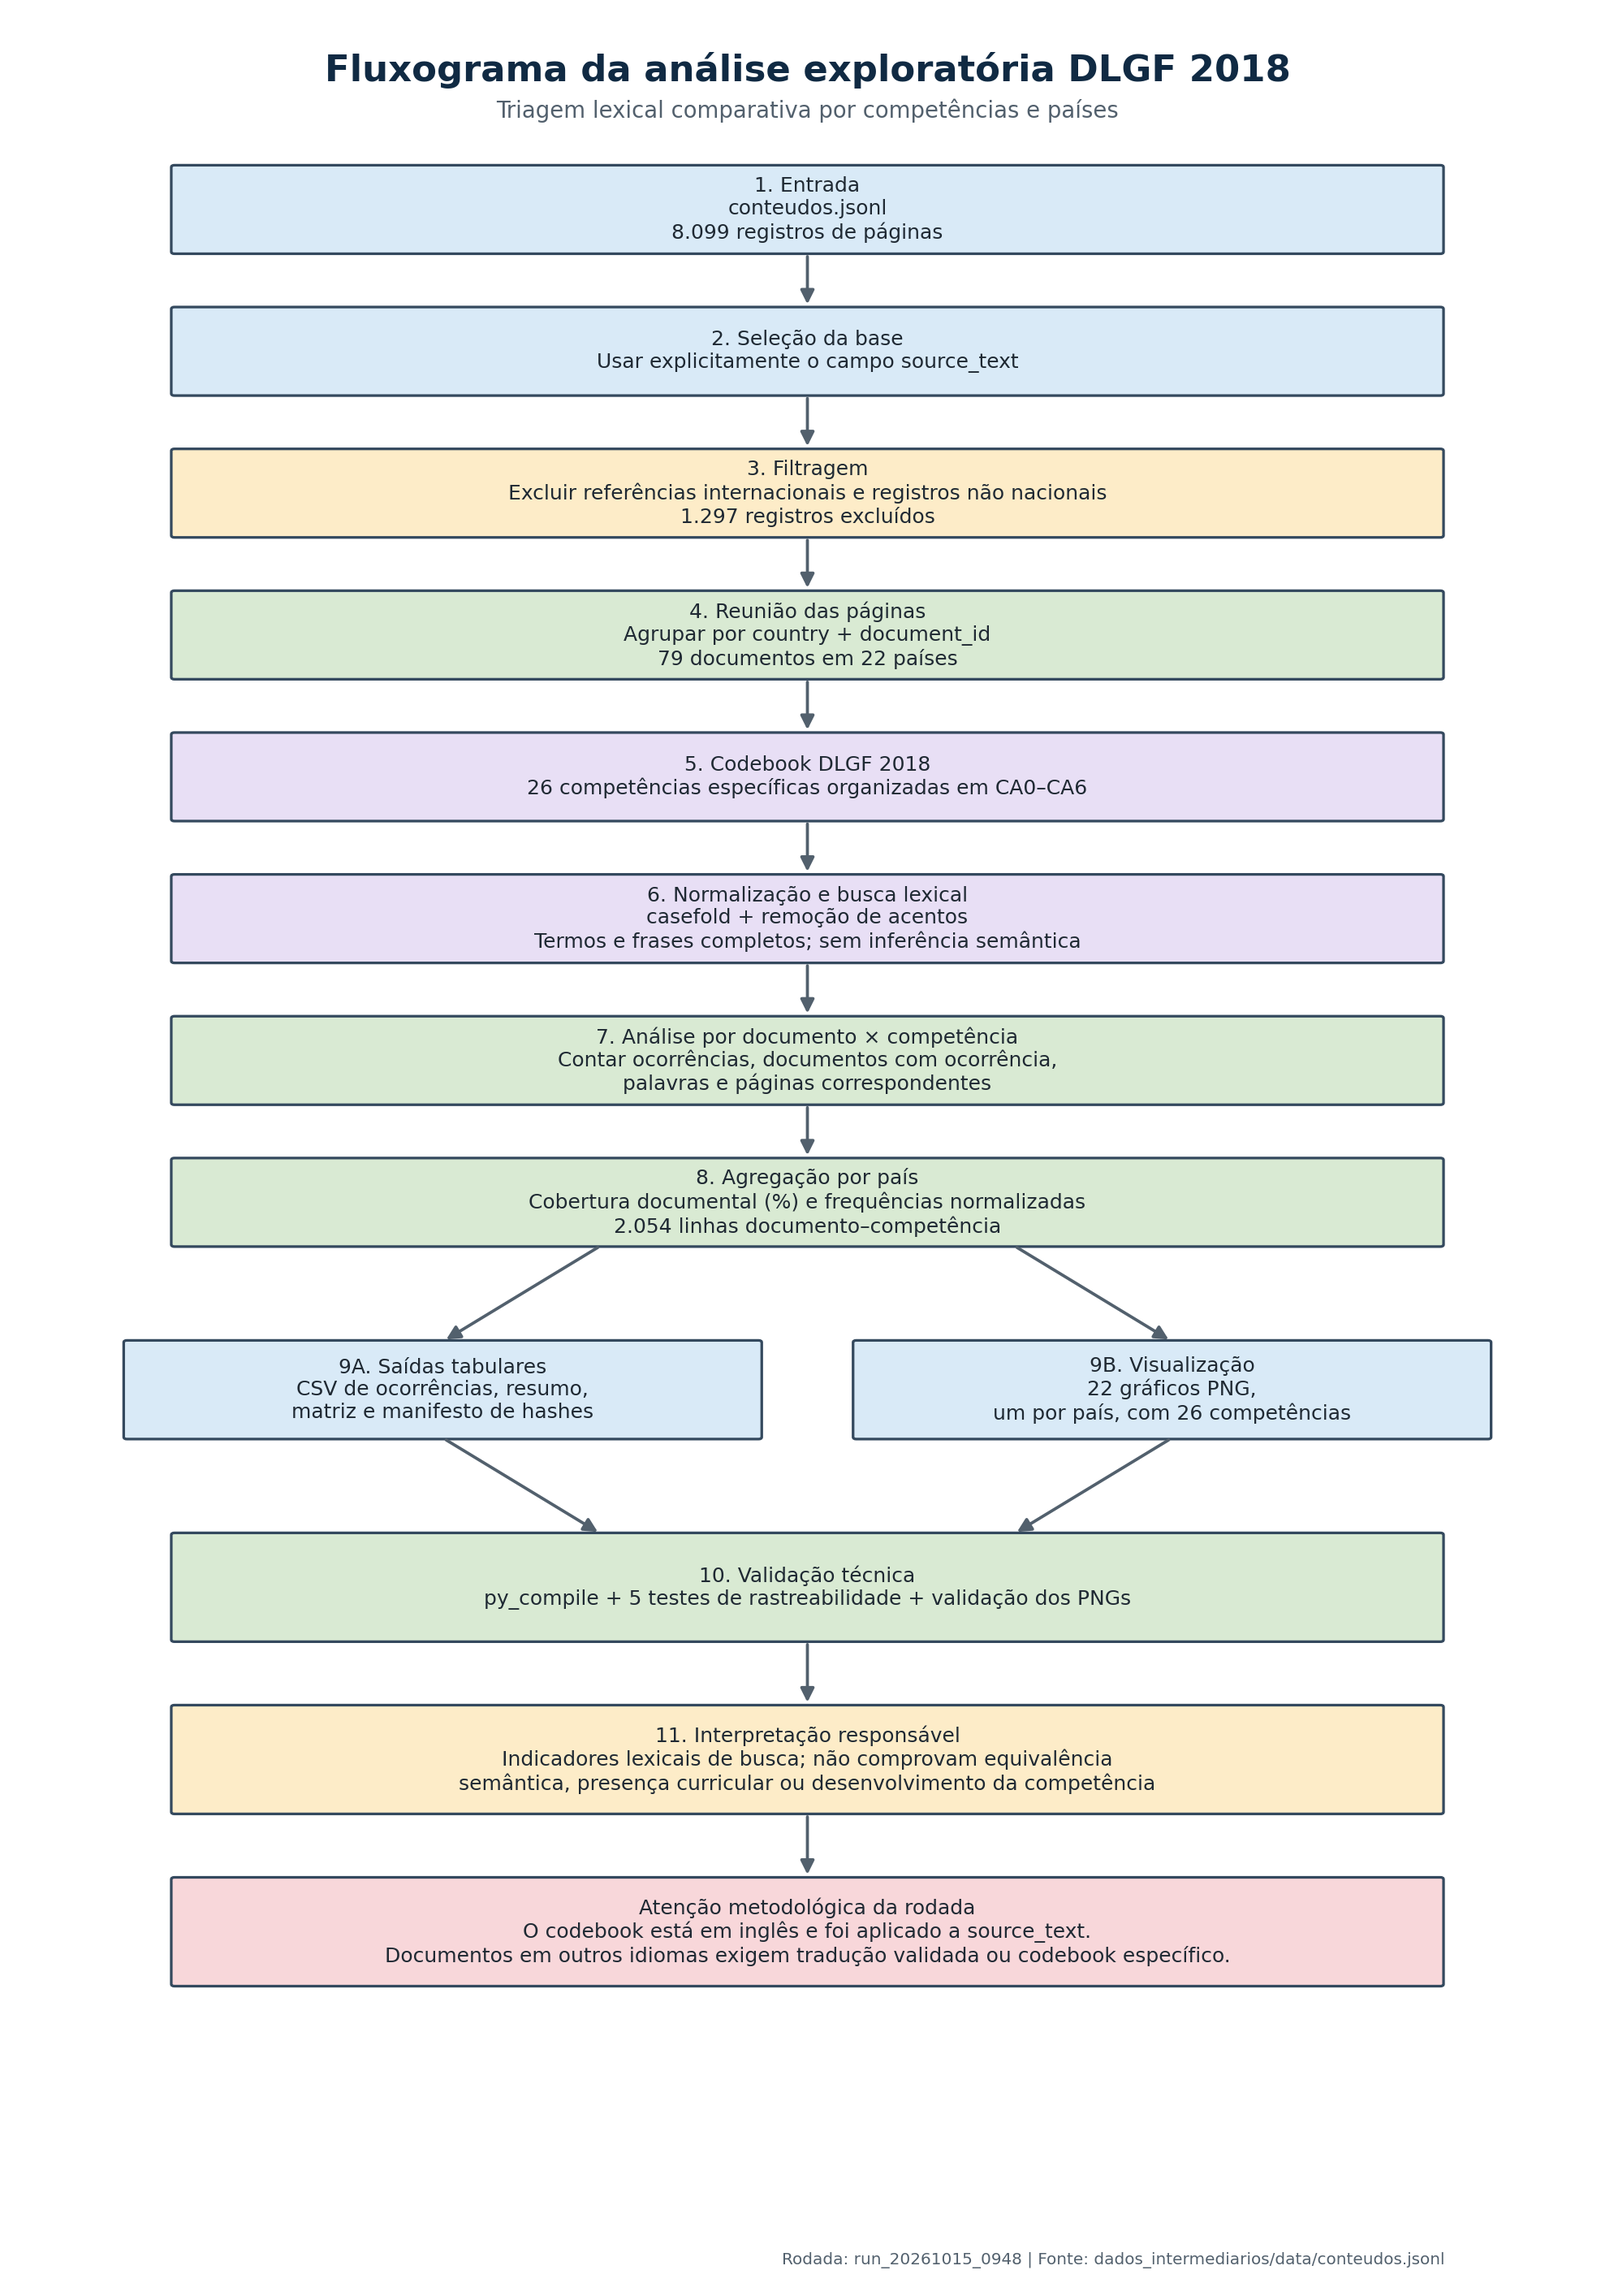
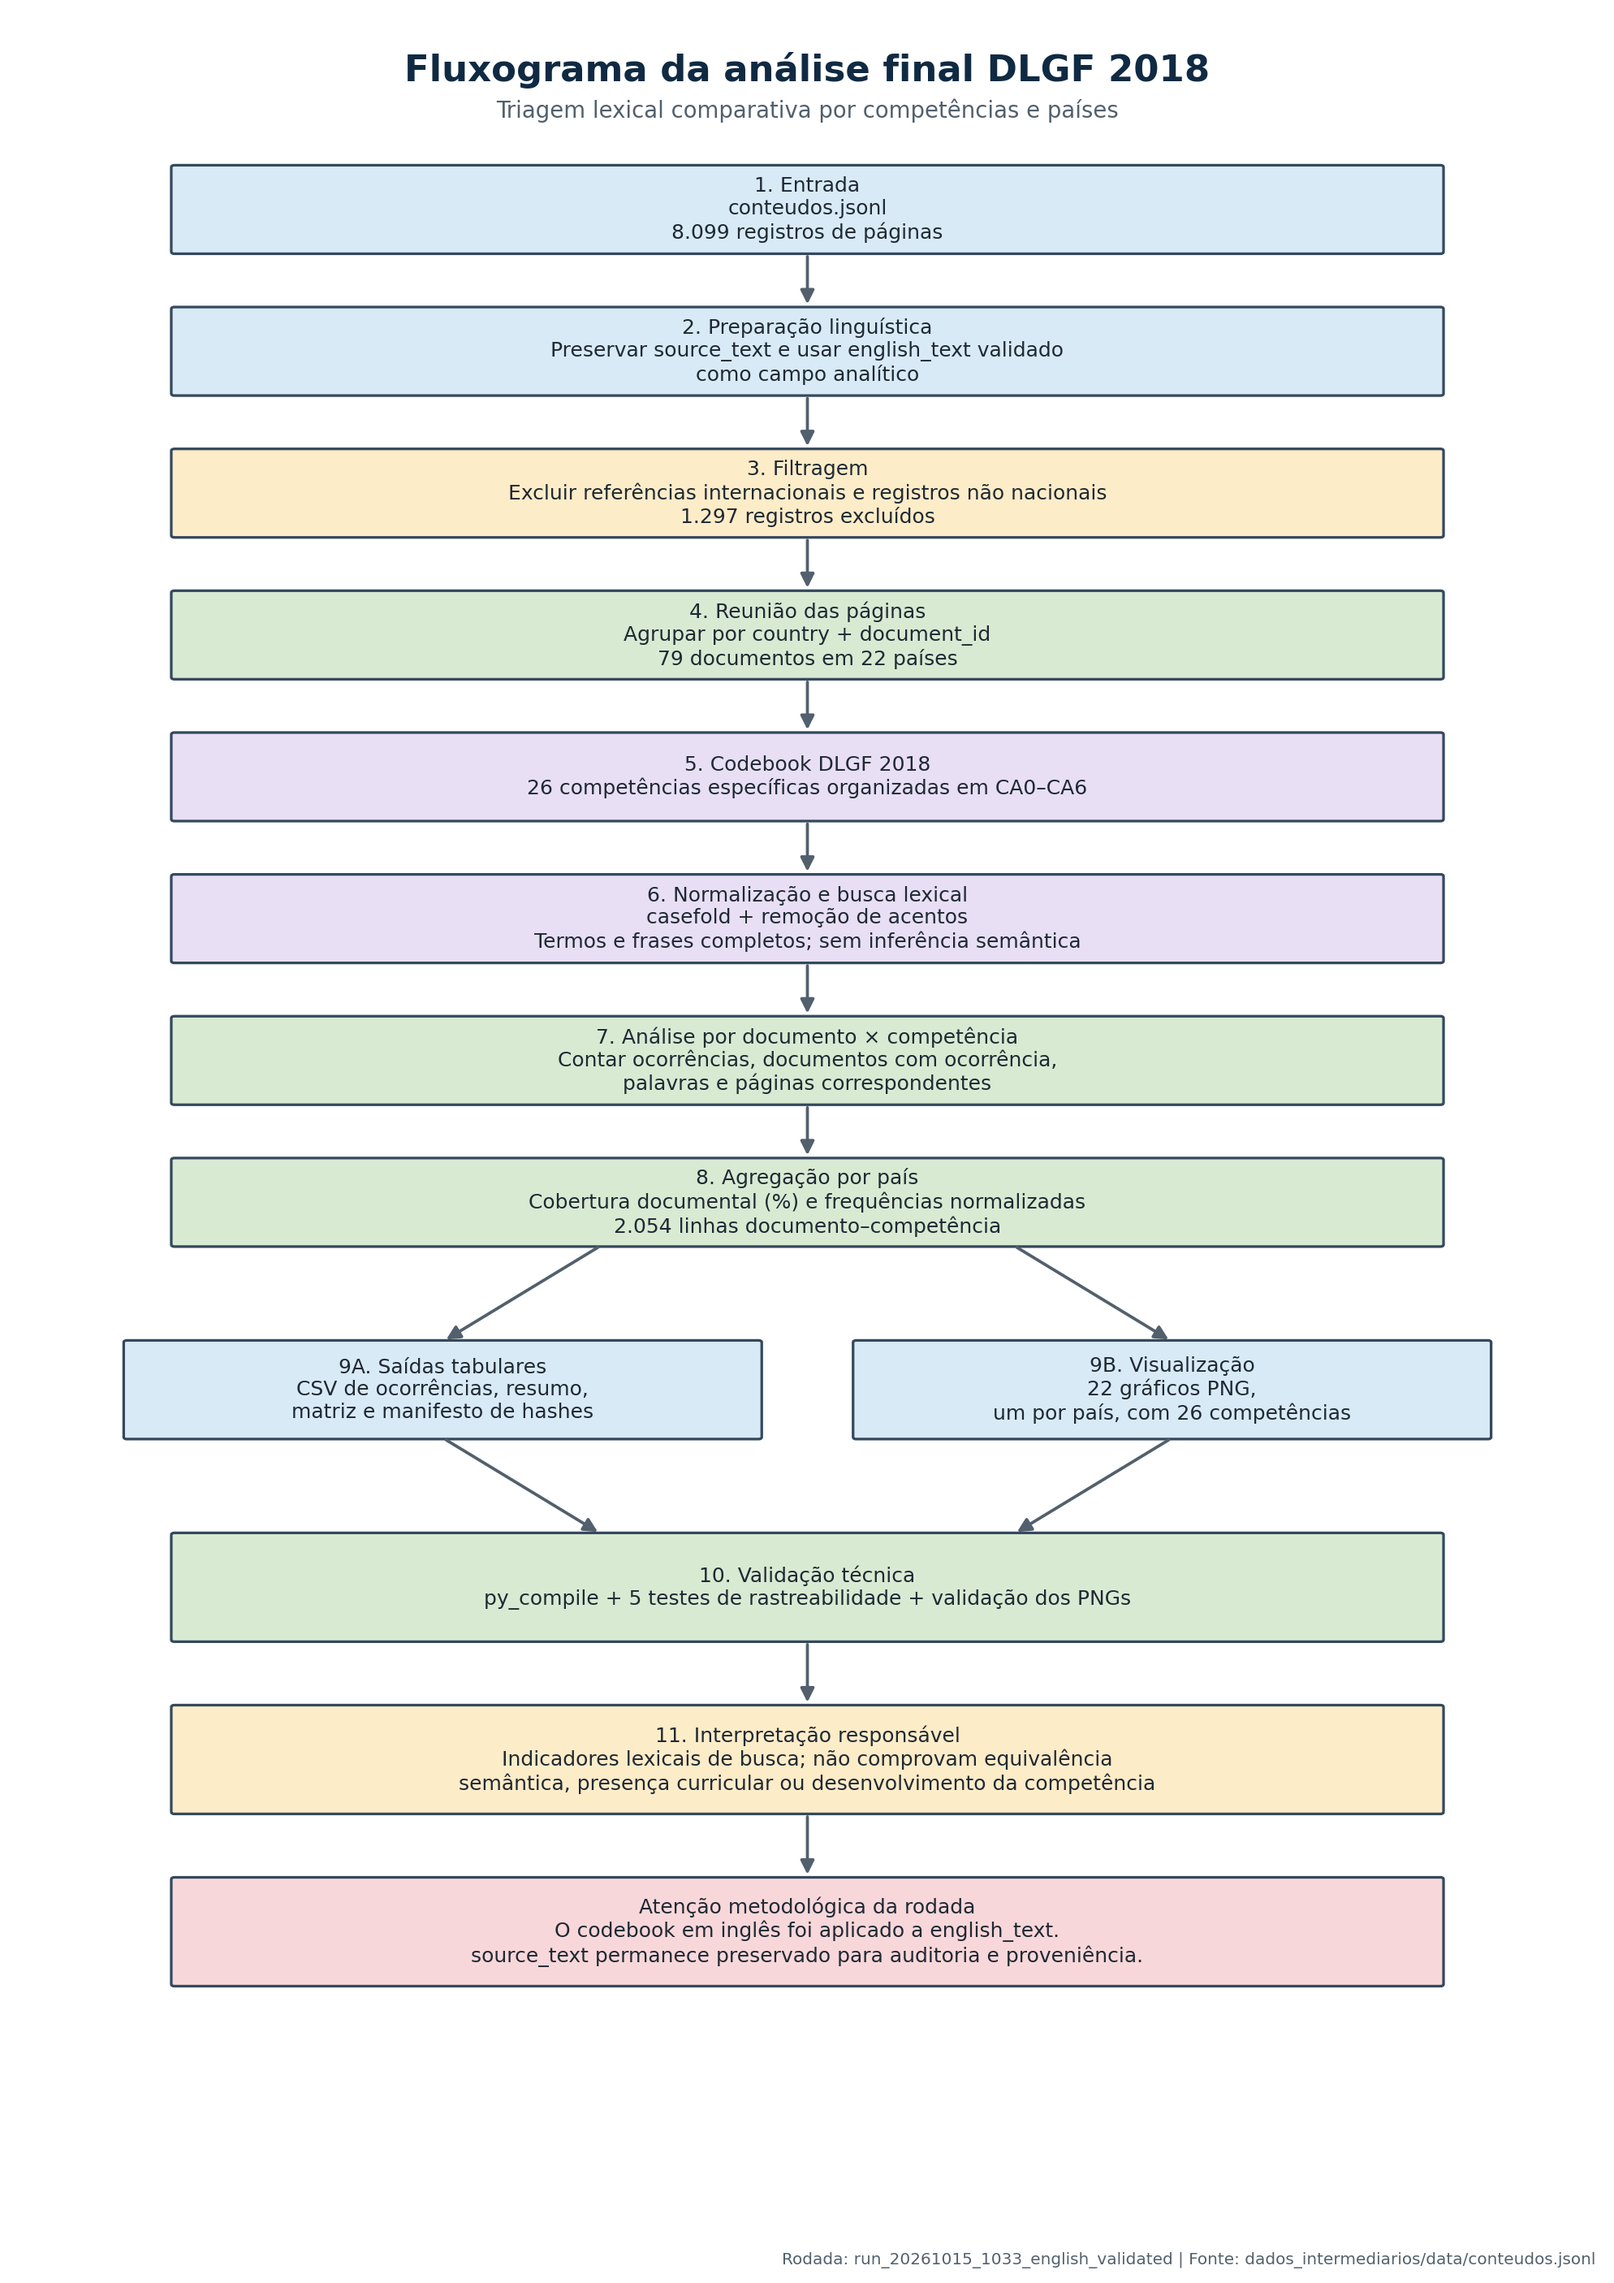
Corrige fluxograma da rodada final
Explicita a preservação de source_text e o uso analítico de english_text pelo codebook em inglês.

diff --git a/dados_derivados/analysis/dlff_2028_porcompetencias/plot_fluxograma_analise.py b/dados_derivados/analysis/dlff_2028_porcompetencias/plot_fluxograma_analise.py
@@ -1,5 +1,5 @@
 #!/usr/bin/env python3
-"""Create a visual flowchart of the exploratory DLGF analysis."""
+"""Create a visual flowchart of the final DLGF analysis."""
 from __future__ import annotations
 
 from pathlib import Path
@@ -57,7 +57,7 @@ def create_flowchart(output: Path) -> None:
     axis.text(
         5,
         19.45,
-        "Fluxograma da análise exploratória DLGF 2018",
+        "Fluxograma da análise final DLGF 2018",
         ha="center",
         va="center",
         fontsize=18,
@@ -76,7 +76,7 @@ def create_flowchart(output: Path) -> None:
 
     boxes = [
         (1.0, 17.65, 8.0, 0.85, "1. Entrada\nconteudos.jsonl\n8.099 registros de páginas", "#D9EAF7"),
-        (1.0, 16.25, 8.0, 0.85, "2. Seleção da base\nUsar explicitamente o campo source_text", "#D9EAF7"),
+        (1.0, 16.25, 8.0, 0.85, "2. Preparação linguística\nPreservar source_text e usar english_text validado\ncomo campo analítico", "#D9EAF7"),
         (1.0, 14.85, 8.0, 0.85, "3. Filtragem\nExcluir referências internacionais e registros não nacionais\n1.297 registros excluídos", "#FDECC8"),
         (1.0, 13.45, 8.0, 0.85, "4. Reunião das páginas\nAgrupar por country + document_id\n79 documentos em 22 países", "#D9EAD3"),
         (1.0, 12.05, 8.0, 0.85, "5. Codebook DLGF 2018\n26 competências específicas organizadas em CA0–CA6", "#E8DFF5"),
@@ -140,7 +140,7 @@ def create_flowchart(output: Path) -> None:
         0.55,
         8.0,
         1.05,
-        "Atenção metodológica da rodada\nO codebook está em inglês e foi aplicado a source_text.\nDocumentos em outros idiomas exigem tradução validada ou codebook específico.",
+        "Atenção metodológica da rodada\nO codebook em inglês foi aplicado a english_text.\nsource_text permanece preservado para auditoria e proveniência.",
         "#F8D7DA",
     )
     add_arrow(axis, (5, 2.25), (5, 1.6))
@@ -148,7 +148,7 @@ def create_flowchart(output: Path) -> None:
     figure.text(
         0.5,
         0.025,
-        "Rodada: run_20261015_0948 | Fonte: dados_intermediarios/data/conteudos.jsonl",
+        "Rodada: run_20261015_1033_english_validated | Fonte: dados_intermediarios/data/conteudos.jsonl",
         fontsize=8,
         color="#52606D",
     )

diff --git a/dados_derivados/analysis/dlff_2028_porcompetencias/README.md b/dados_derivados/analysis/dlff_2028_porcompetencias/README.md
@@ -50,6 +50,8 @@ Cada gráfico apresenta a cobertura documental de cada uma das 26 competências 
 
 O mapa de calor [country_competence_heatmap.png](./run_20261015_1033_english_validated/results/country_competence_heatmap.png) apresenta diretamente a mesma matriz país × competência, com escala fixa de 0 a 100% e o número de documentos de cada país. Ele é preferível a uma projeção t-SNE para a apresentação descritiva porque não cria eixos ou distâncias artificiais.
 
+O [fluxograma da análise](./fluxograma_analise_exploratoria_dlgf.png) representa a rodada final: `source_text` é preservado como texto de origem e `english_text` é o campo validado usado pelo codebook em inglês.
+
 O dataset bilíngue completo da rodada final não é publicado neste repositório
 porque contém todos os textos originais do corpus. Ele pode ser disponibilizado
 privadamente à banca ou a avaliadores autorizados, mediante solicitação e

diff --git a/dados_derivados/analysis/dlff_2028_porcompetencias/LOG_TESTES_20261015.md b/dados_derivados/analysis/dlff_2028_porcompetencias/LOG_TESTES_20261015.md
@@ -85,6 +85,8 @@ Os artefatos permanecem em `run_20261015_1033_english_validated/proximidade_pais
 
 O mapa de calor final, por apresentar diretamente percentuais de cobertura documental sem projeção de distâncias, está em `run_20261015_1033_english_validated/results/country_competence_heatmap.png`.
 
+O fluxograma foi atualizado para representar corretamente a rodada final: `source_text` é preservado para proveniência e `english_text` é usado como campo analítico pelo codebook em inglês.
+
 ## Observação metodológica
 
 As ocorrências produzidas são indicadores lexicais de busca. Não constituem validação semântica ou comprovação de que um currículo desenvolve determinada competência.
